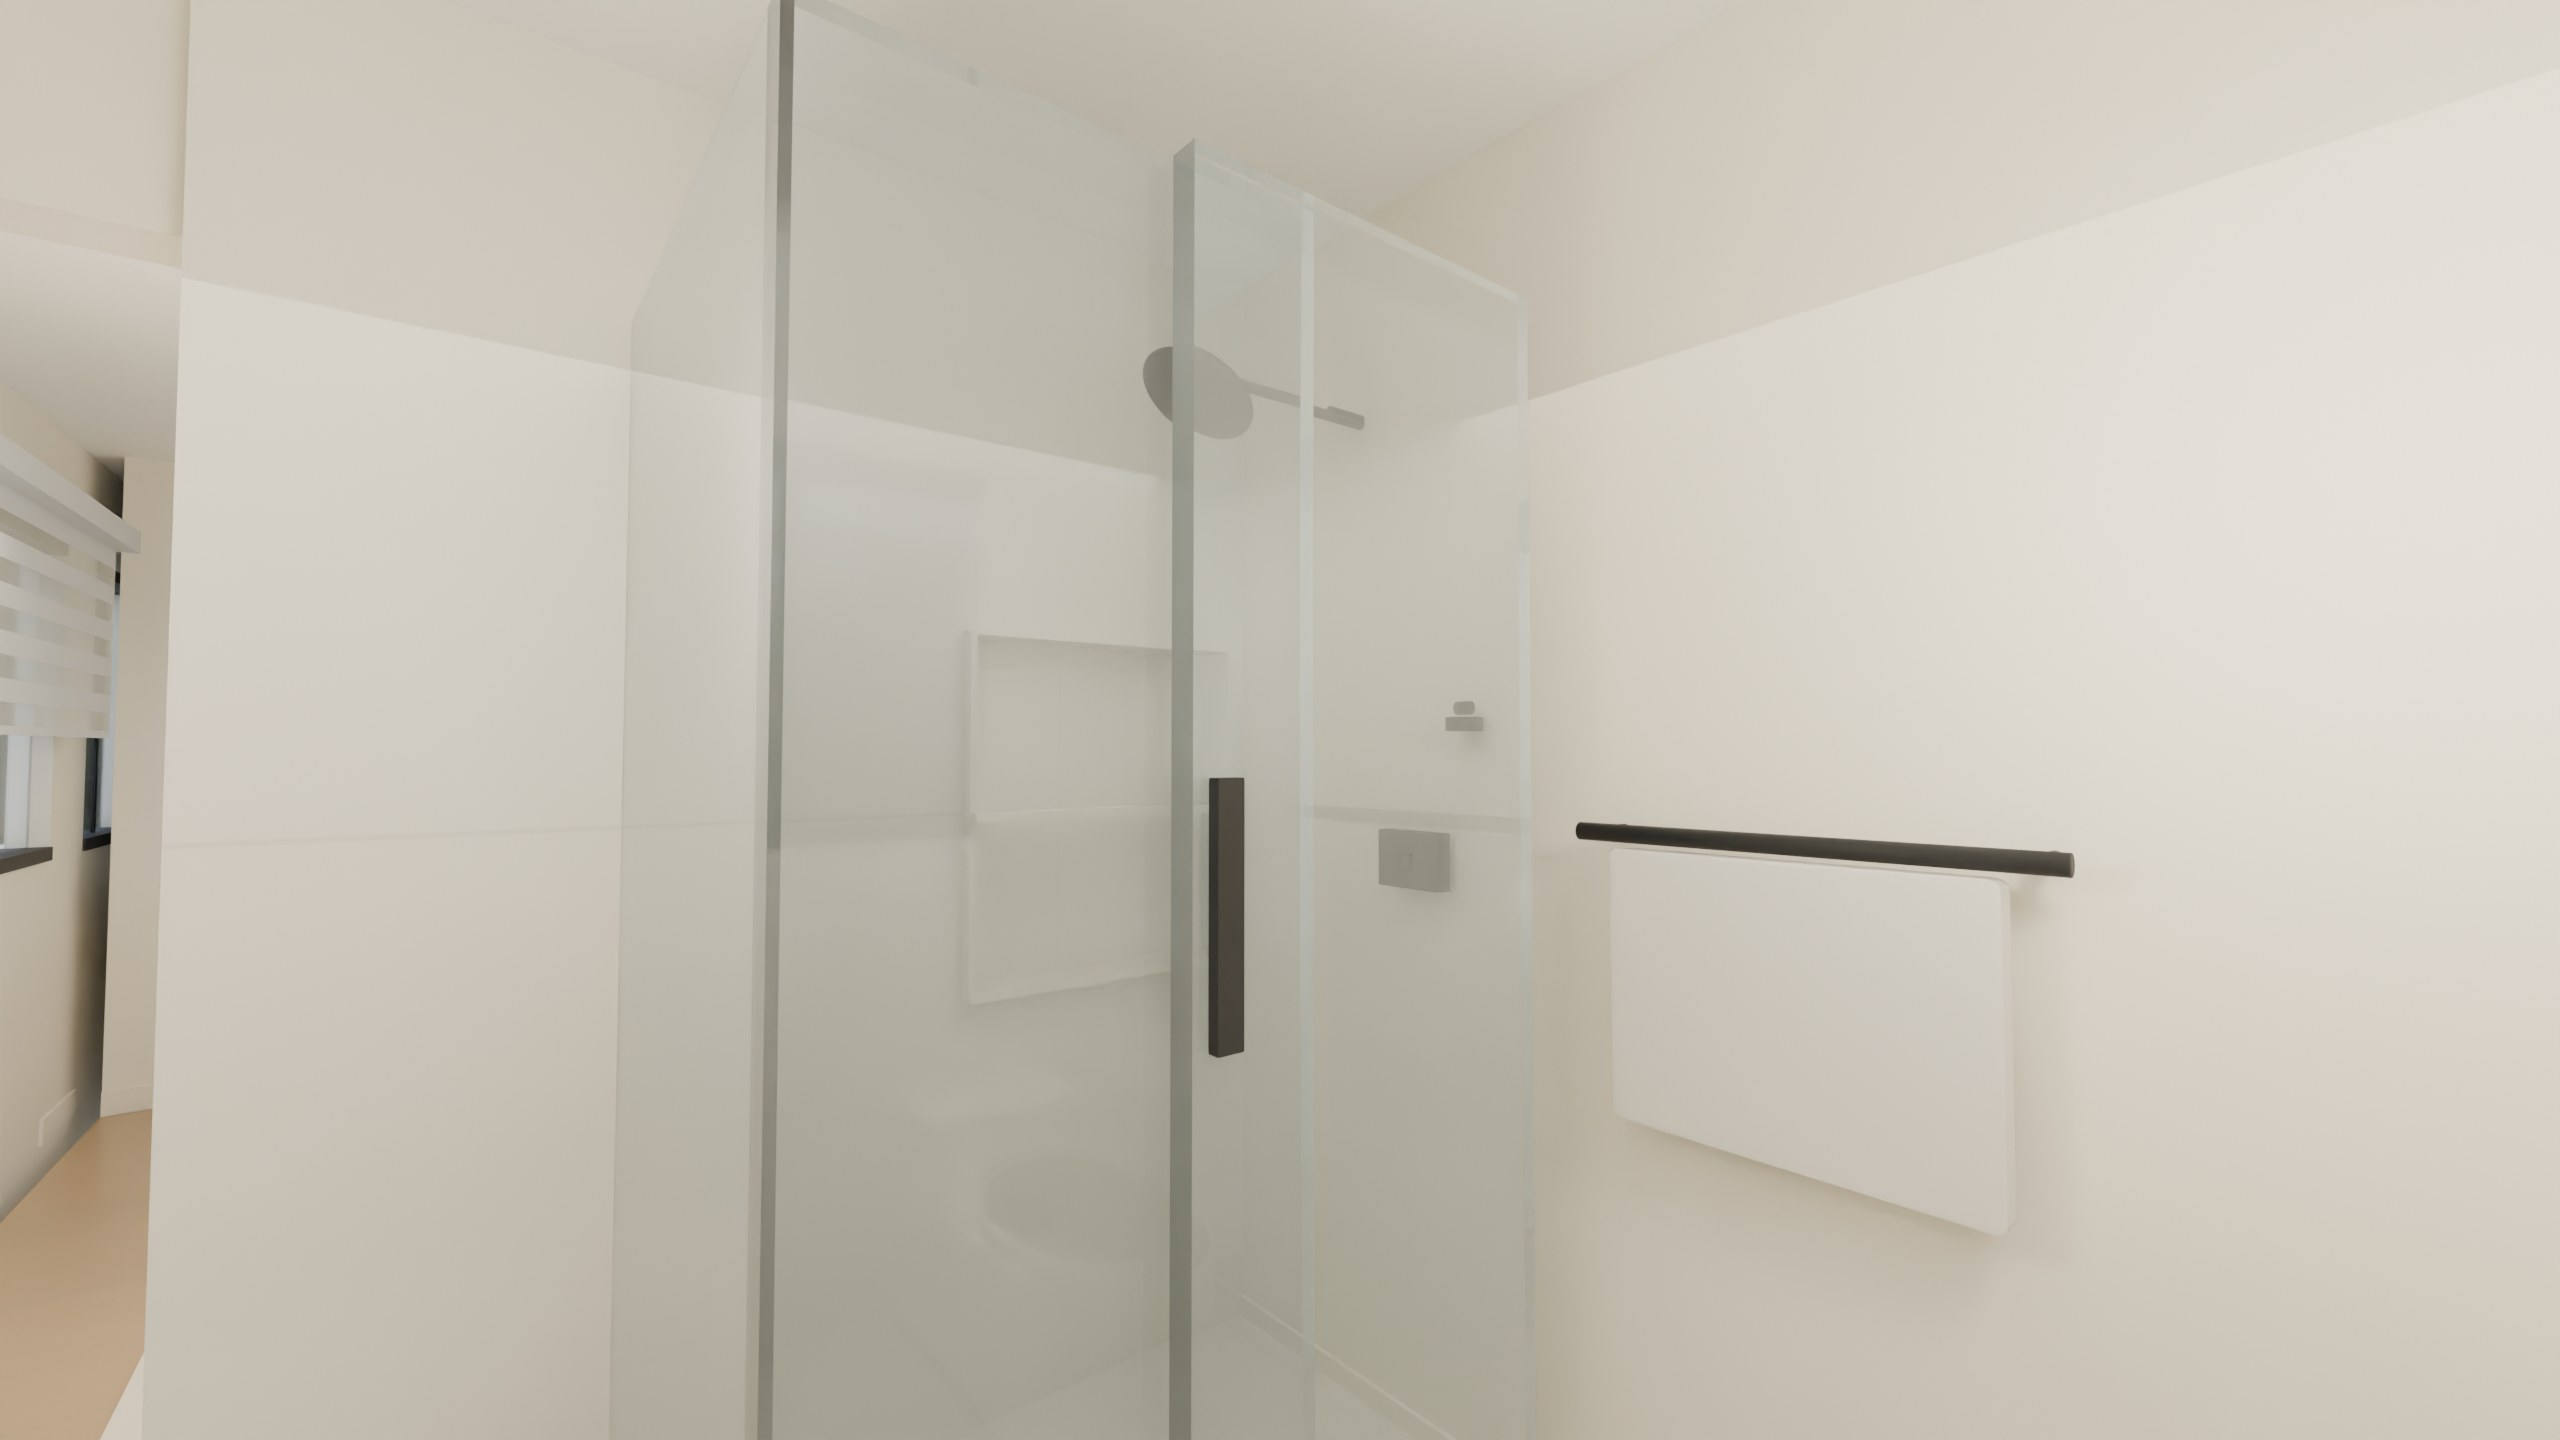
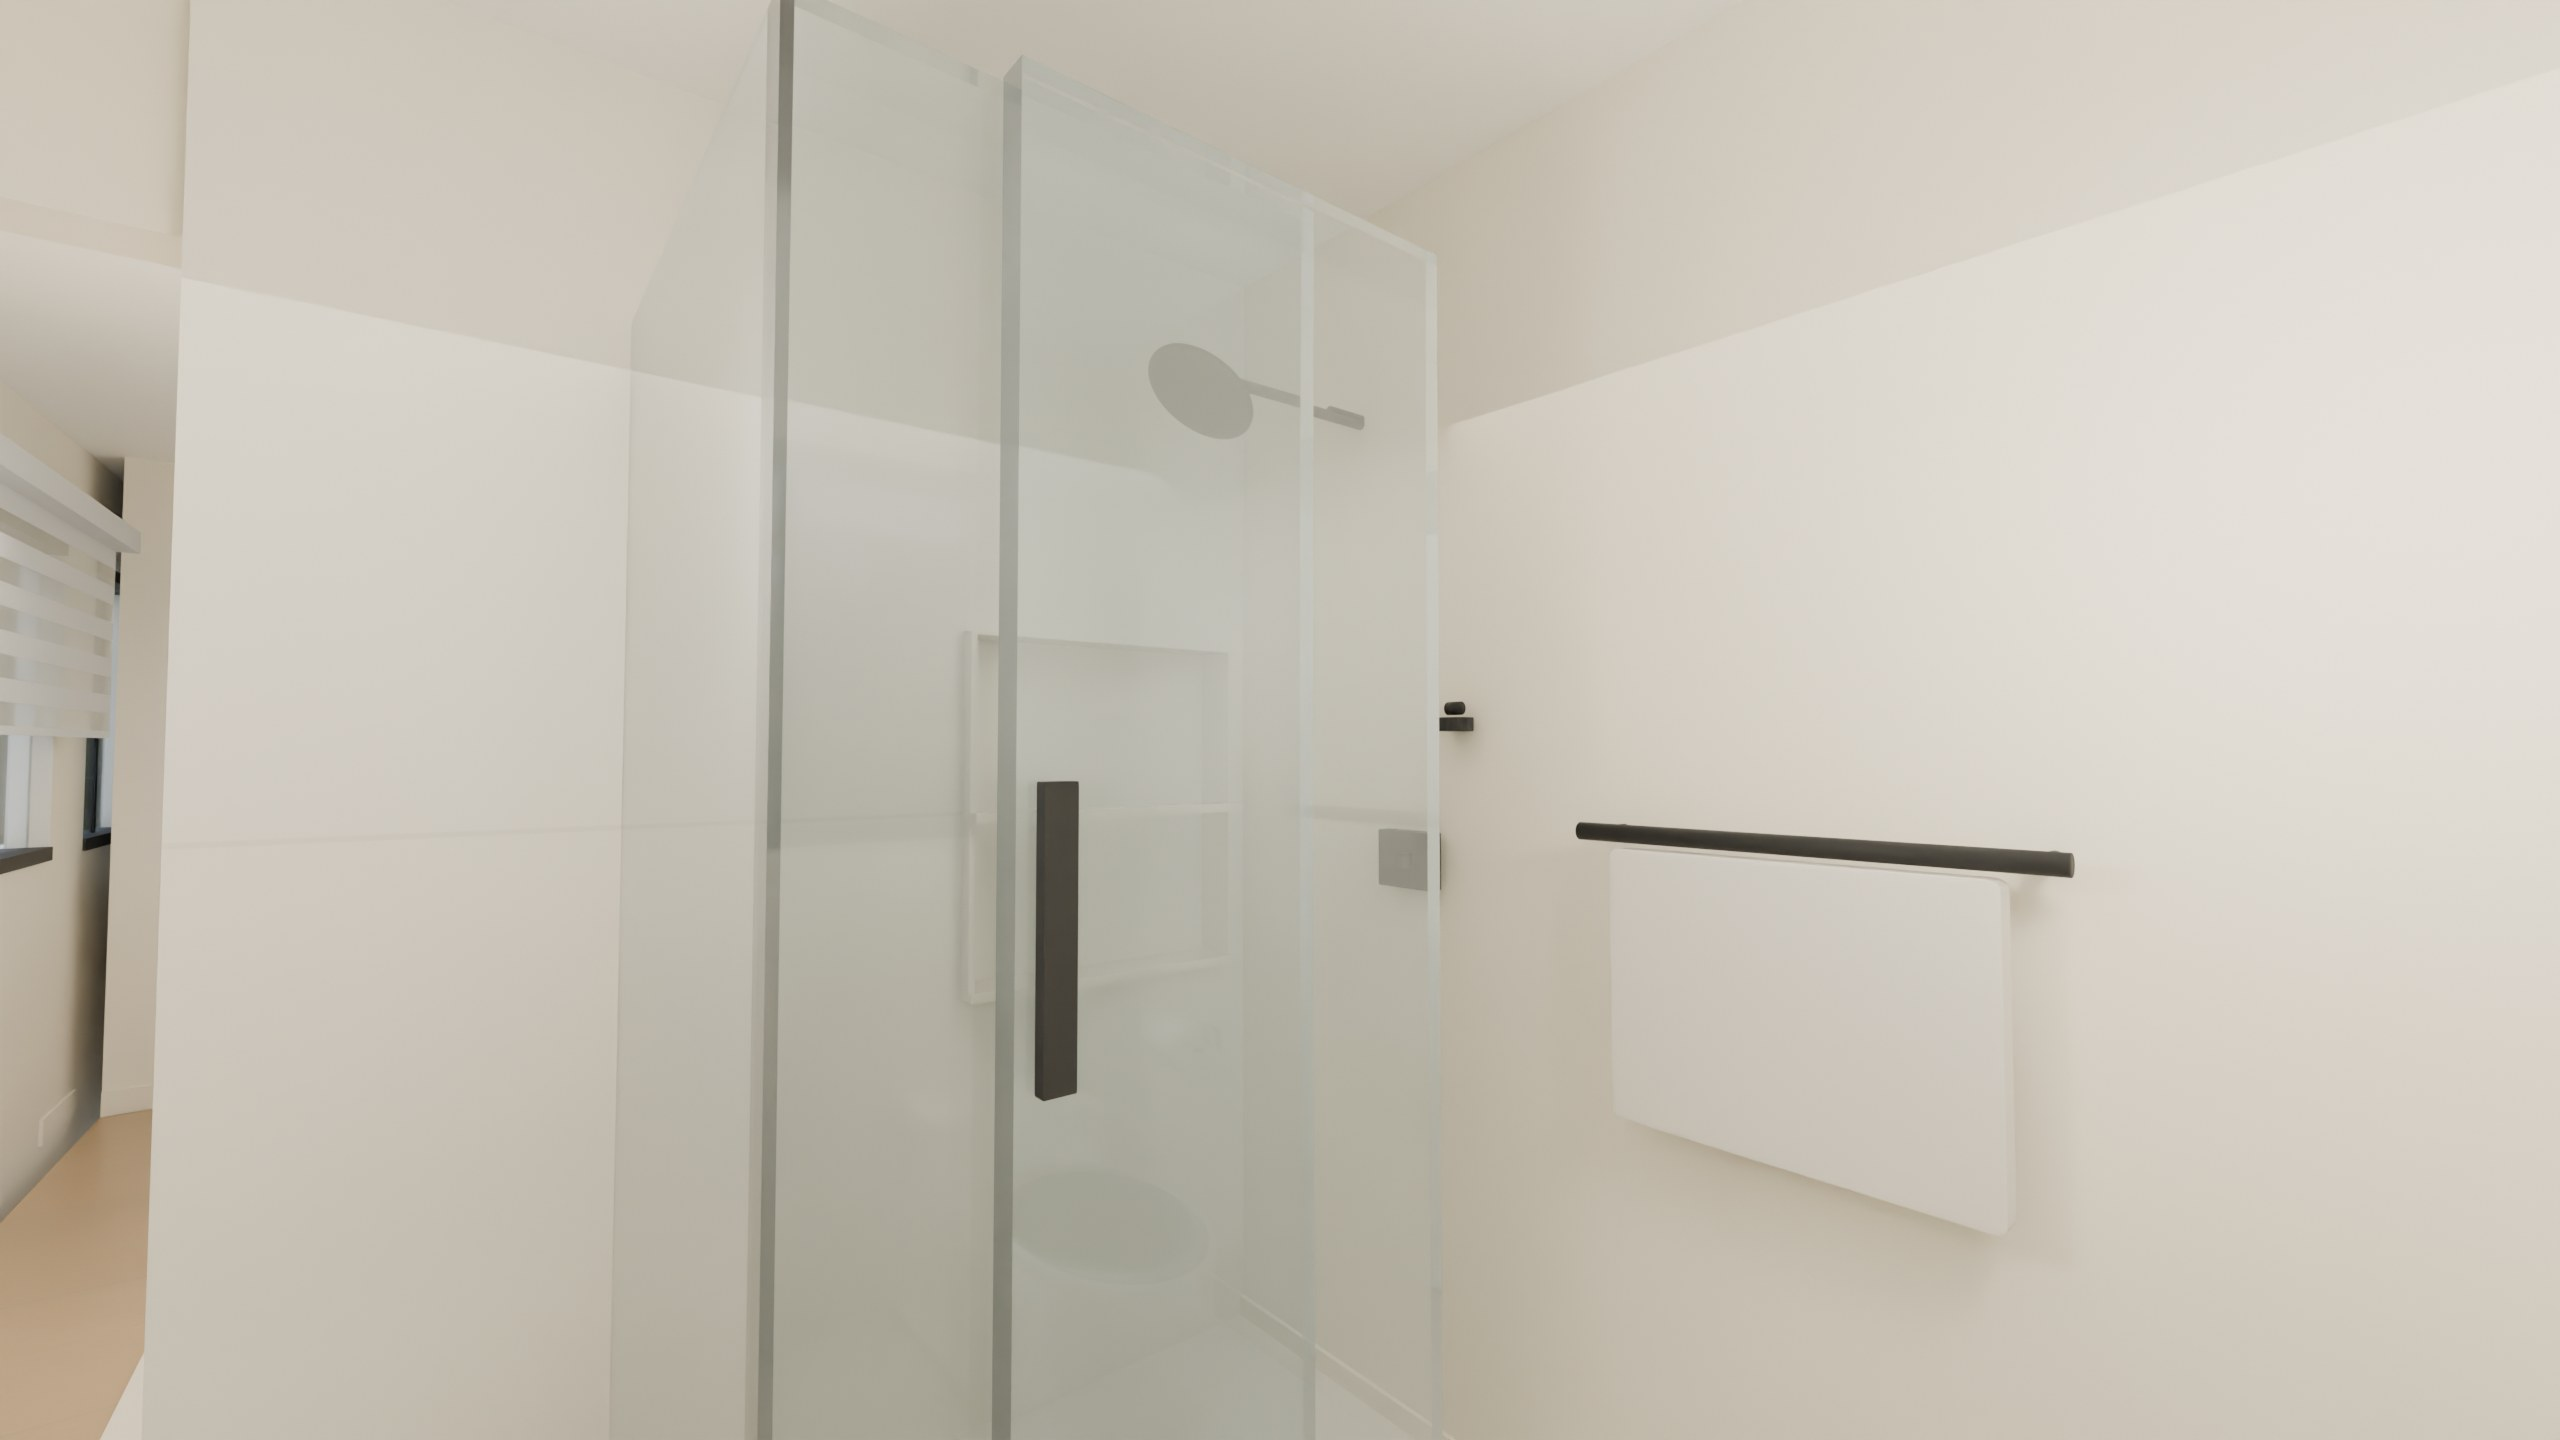
Crew UAT: Bath2 slider two-thirds open

diff --git a/UAT.html b/UAT.html
@@ -135,7 +135,7 @@ li.own,span.own{color:#6b5d3a}li.own::marker{color:#c9b48a}
 <h3 id="s10">10 · Bath2 · Bath3</h3>
 <div class="fig plan"><figure><img src="uat/zone-11.jpg" alt=""><figcaption><b>Bath2 · Bath3 · 平面</b> — 本区位置与各房间名称；细节看效果图。</figcaption></figure></div>
 
-<div class="fig three"><figure><img src="uat/B2-overall.jpg" alt=""><figcaption><b>Bath2 · 整体（西南角看，带玻璃）</b> — 右前：东北角 48×40 淋浴、半无框哑黑推拉门；右：智能坐便；门北墙；砖只在淋浴到顶，干区 PT-01。</figcaption></figure><figure><img src="uat/B2-inside.jpg" alt=""><figcaption><b>Bath2 · 淋浴内部（推拉门滑开 1/3，带玻璃）</b> — 东扇向西滑到西扇外侧、开口在东端（阀侧）；东墙（共墙）双阀 44"、手持滑杆、顶部固定花洒；玻璃线以南东墙 24" 毛巾杆 48"（出淋浴左手）；北墙中跨 24×28 龛底 34" 顶 62"、搁板落 48" 缝；Andover 地砖连铺；2" 低挡水石英盖板。</figcaption></figure><figure><img src="uat/B2-vanity-shower.jpg" alt=""><figcaption><b>Bath2 盆柜（门口向南看，带玻璃）</b> — 48" 白橡单盆柜；盆 + 30×36 镜（44–80"）向西偏置避开南窗；24" 哑黑灯条坐镜顶；右：西墙 24" 洗脸毛巾杆 48"；左：48×40 淋浴半无框推拉门、砖到顶。</figcaption></figure></div>
+<div class="fig three"><figure><img src="uat/B2-overall.jpg" alt=""><figcaption><b>Bath2 · 整体（西南角看，带玻璃）</b> — 右前：东北角 48×40 淋浴、半无框哑黑推拉门；右：智能坐便；门北墙；砖只在淋浴到顶，干区 PT-01。</figcaption></figure><figure><img src="uat/B2-inside.jpg" alt=""><figcaption><b>Bath2 · 淋浴内部（推拉门滑开 2/3，带玻璃）</b> — 东扇向西滑到西扇外侧、开口在东端（阀侧）；东墙（共墙）双阀 44"、手持滑杆、顶部固定花洒；玻璃线以南东墙 24" 毛巾杆 48"（出淋浴左手）；北墙中跨 24×28 龛底 34" 顶 62"、搁板落 48" 缝；Andover 地砖连铺；2" 低挡水石英盖板。</figcaption></figure><figure><img src="uat/B2-vanity-shower.jpg" alt=""><figcaption><b>Bath2 盆柜（门口向南看，带玻璃）</b> — 48" 白橡单盆柜；盆 + 30×36 镜（44–80"）向西偏置避开南窗；24" 哑黑灯条坐镜顶；右：西墙 24" 洗脸毛巾杆 48"；左：48×40 淋浴半无框推拉门、砖到顶。</figcaption></figure></div>
 
 <div class="fig wide"><figure><img src="uat/tile-B2.jpg" alt=""><figcaption><b>Bath2 · 四面墙贴砖范围</b> — 淋浴 48×40 在东北角：北墙东段 50" + 共墙北段 40" 砖到顶，其余三面全高浴室级 PT-01；龛 24×28 在北墙砖段。</figcaption></figure></div>
 

diff --git a/index.html b/index.html
@@ -135,7 +135,7 @@ li.own,span.own{color:#6b5d3a}li.own::marker{color:#c9b48a}
 <h3 id="s10">10 · Bath2 · Bath3</h3>
 <div class="fig plan"><figure><img src="uat/zone-11.jpg" alt=""><figcaption><b>Bath2 · Bath3 · 平面</b> — 本区位置与各房间名称；细节看效果图。</figcaption></figure></div>
 
-<div class="fig three"><figure><img src="uat/B2-overall.jpg" alt=""><figcaption><b>Bath2 · 整体（西南角看，带玻璃）</b> — 右前：东北角 48×40 淋浴、半无框哑黑推拉门；右：智能坐便；门北墙；砖只在淋浴到顶，干区 PT-01。</figcaption></figure><figure><img src="uat/B2-inside.jpg" alt=""><figcaption><b>Bath2 · 淋浴内部（推拉门滑开 1/3，带玻璃）</b> — 东扇向西滑到西扇外侧、开口在东端（阀侧）；东墙（共墙）双阀 44"、手持滑杆、顶部固定花洒；玻璃线以南东墙 24" 毛巾杆 48"（出淋浴左手）；北墙中跨 24×28 龛底 34" 顶 62"、搁板落 48" 缝；Andover 地砖连铺；2" 低挡水石英盖板。</figcaption></figure><figure><img src="uat/B2-vanity-shower.jpg" alt=""><figcaption><b>Bath2 盆柜（门口向南看，带玻璃）</b> — 48" 白橡单盆柜；盆 + 30×36 镜（44–80"）向西偏置避开南窗；24" 哑黑灯条坐镜顶；右：西墙 24" 洗脸毛巾杆 48"；左：48×40 淋浴半无框推拉门、砖到顶。</figcaption></figure></div>
+<div class="fig three"><figure><img src="uat/B2-overall.jpg" alt=""><figcaption><b>Bath2 · 整体（西南角看，带玻璃）</b> — 右前：东北角 48×40 淋浴、半无框哑黑推拉门；右：智能坐便；门北墙；砖只在淋浴到顶，干区 PT-01。</figcaption></figure><figure><img src="uat/B2-inside.jpg" alt=""><figcaption><b>Bath2 · 淋浴内部（推拉门滑开 2/3，带玻璃）</b> — 东扇向西滑到西扇外侧、开口在东端（阀侧）；东墙（共墙）双阀 44"、手持滑杆、顶部固定花洒；玻璃线以南东墙 24" 毛巾杆 48"（出淋浴左手）；北墙中跨 24×28 龛底 34" 顶 62"、搁板落 48" 缝；Andover 地砖连铺；2" 低挡水石英盖板。</figcaption></figure><figure><img src="uat/B2-vanity-shower.jpg" alt=""><figcaption><b>Bath2 盆柜（门口向南看，带玻璃）</b> — 48" 白橡单盆柜；盆 + 30×36 镜（44–80"）向西偏置避开南窗；24" 哑黑灯条坐镜顶；右：西墙 24" 洗脸毛巾杆 48"；左：48×40 淋浴半无框推拉门、砖到顶。</figcaption></figure></div>
 
 <div class="fig wide"><figure><img src="uat/tile-B2.jpg" alt=""><figcaption><b>Bath2 · 四面墙贴砖范围</b> — 淋浴 48×40 在东北角：北墙东段 50" + 共墙北段 40" 砖到顶，其余三面全高浴室级 PT-01；龛 24×28 在北墙砖段。</figcaption></figure></div>
 
